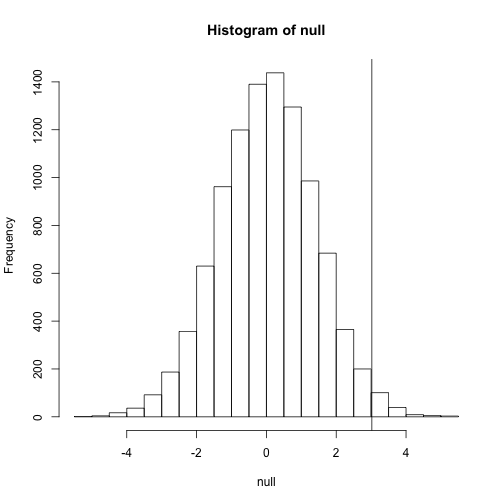
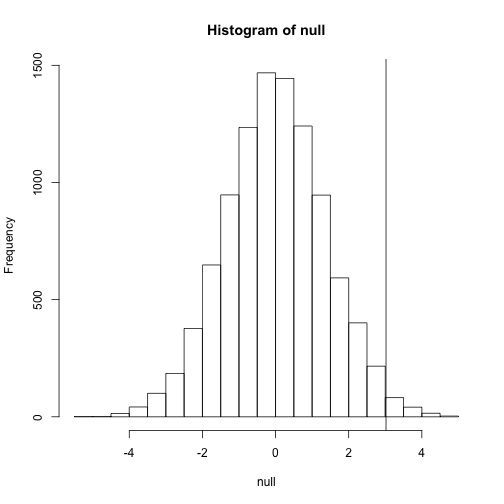
adding

diff --git a/manuscript/random_variables.md b/manuscript/random_variables.md
@@ -130,7 +130,7 @@ mean(control)
 ```
 
 ```
-## [1] 23.81333
+## [1] 24.11333
 ```
 
 ```r
@@ -139,7 +139,7 @@ mean(control)
 ```
 
 ```
-## [1] 23.77083
+## [1] 24.40667
 ```
 
 ```r
@@ -148,7 +148,7 @@ mean(control)
 ```
 
 ```
-## [1] 24.18667
+## [1] 23.84
 ```
 
 Note how the average varies. We can continue to do this over and over again and start learning something about the...
@@ -171,7 +171,7 @@ print(mean(treatment) - mean(control))
 ```
 
 ```
-## [1] 0.6375
+## [1] 0.5575
 ```
 
 Now let's do it 10,000 times. We will use a for-loop, an operation that lets us automatize this
@@ -196,7 +196,7 @@ mean(null>=diff)
 ```
 
 ```
-## [1] 0.0151
+## [1] 0.0138
 ```
 
 Only 1.5%. So what do we conclude as skeptics. When there is no diet effect, we see value a `diff` as big as the one we observed only 1.5% of the time. Note that this is what is known as a p-value which we will also define more formally later
@@ -221,7 +221,7 @@ for(i in 1:n){
   }
 ```
 
-![plot of chunk unnamed-chunk-10](figure/random_variables-unnamed-chunk-10-1.png) 
+![plot of chunk unnamed-chunk-10](images/random_variables-unnamed-chunk-10-1.png) 
 
 <a name="distributions"></a>
 
@@ -241,7 +241,7 @@ myecdf <- ecdf(null)
 plot(values,myecdf(values),type="l")
 ```
 
-![plot of chunk unnamed-chunk-11](figure/random_variables-unnamed-chunk-11-1.png) 
+![plot of chunk unnamed-chunk-11](images/random_variables-unnamed-chunk-11-1.png) 
 
 The `ecdf` function is not typical and we won't discuss it here. Furthermore, these ecdfs are actually not as popular as histograms which give us the same information but show us the proportion of values in intervals
 
@@ -256,7 +256,7 @@ hist(null)
 abline(v=diff)
 ```
 
-![plot of chunk unnamed-chunk-12](figure/random_variables-unnamed-chunk-12-1.png) 
+![plot of chunk unnamed-chunk-12](images/random_variables-unnamed-chunk-12-1.png) 
 
 We will provide more details on histograms in later chapters. 
 
@@ -280,7 +280,7 @@ Here $\mu$ and $\sigma$ are refereed to as the mean and standard deviation. If t
 ```
 
 ```
-## [1] 0.01468484
+## [1] 0.01391929
 ```
 
 Later we will learn there is a mathematical explanation for this. A very useful characteristic of this approximation is that one only needs to know $\mu$ and $\sigma$ to describe the entire distribution. From this we can compute the proportion of values in any interval. 
